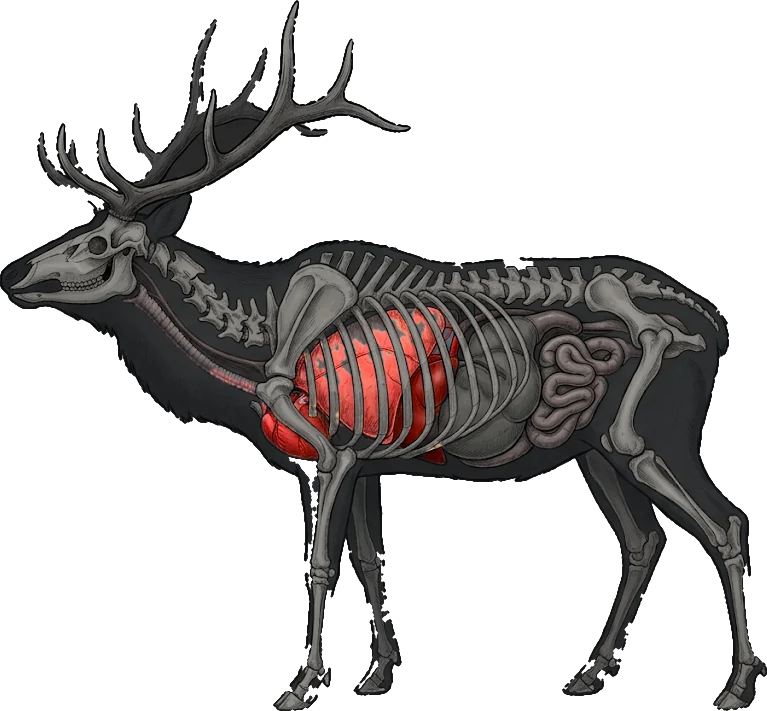
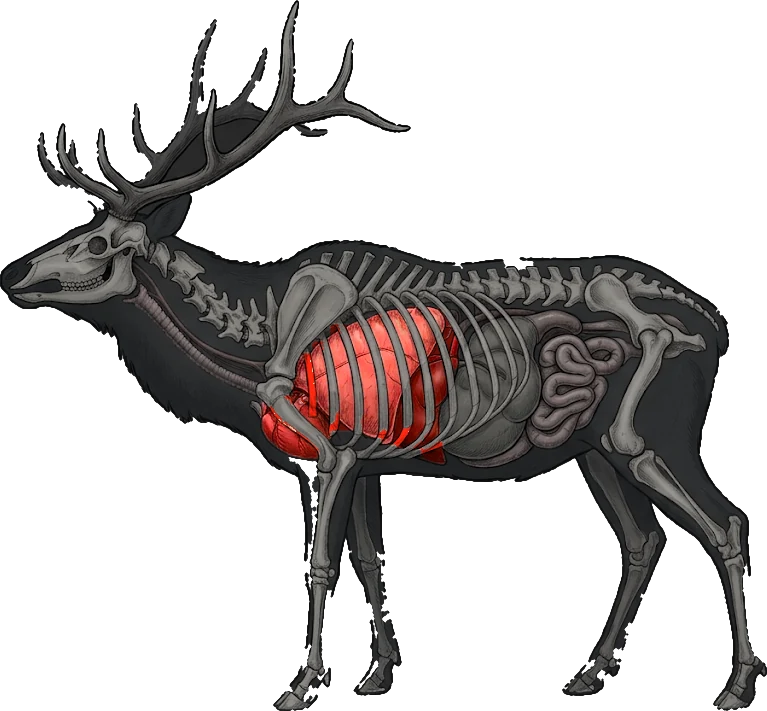
Elk image: clean up the lung shading patches; cache v24
Claude-Session: https://claude.ai/code/session_01XpMtuAb4amgVB6hCKMphiV

diff --git a/sw.js b/sw.js
@@ -1,6 +1,6 @@
 /* Carbon Rogue Solver - offline service worker.
    Bump CACHE on every deploy so phones pick the new build up. */
-const CACHE = "rogue-solver-v23";
+const CACHE = "rogue-solver-v24";
 const SHELL = [
   "./",
   "./manifest.webmanifest",
